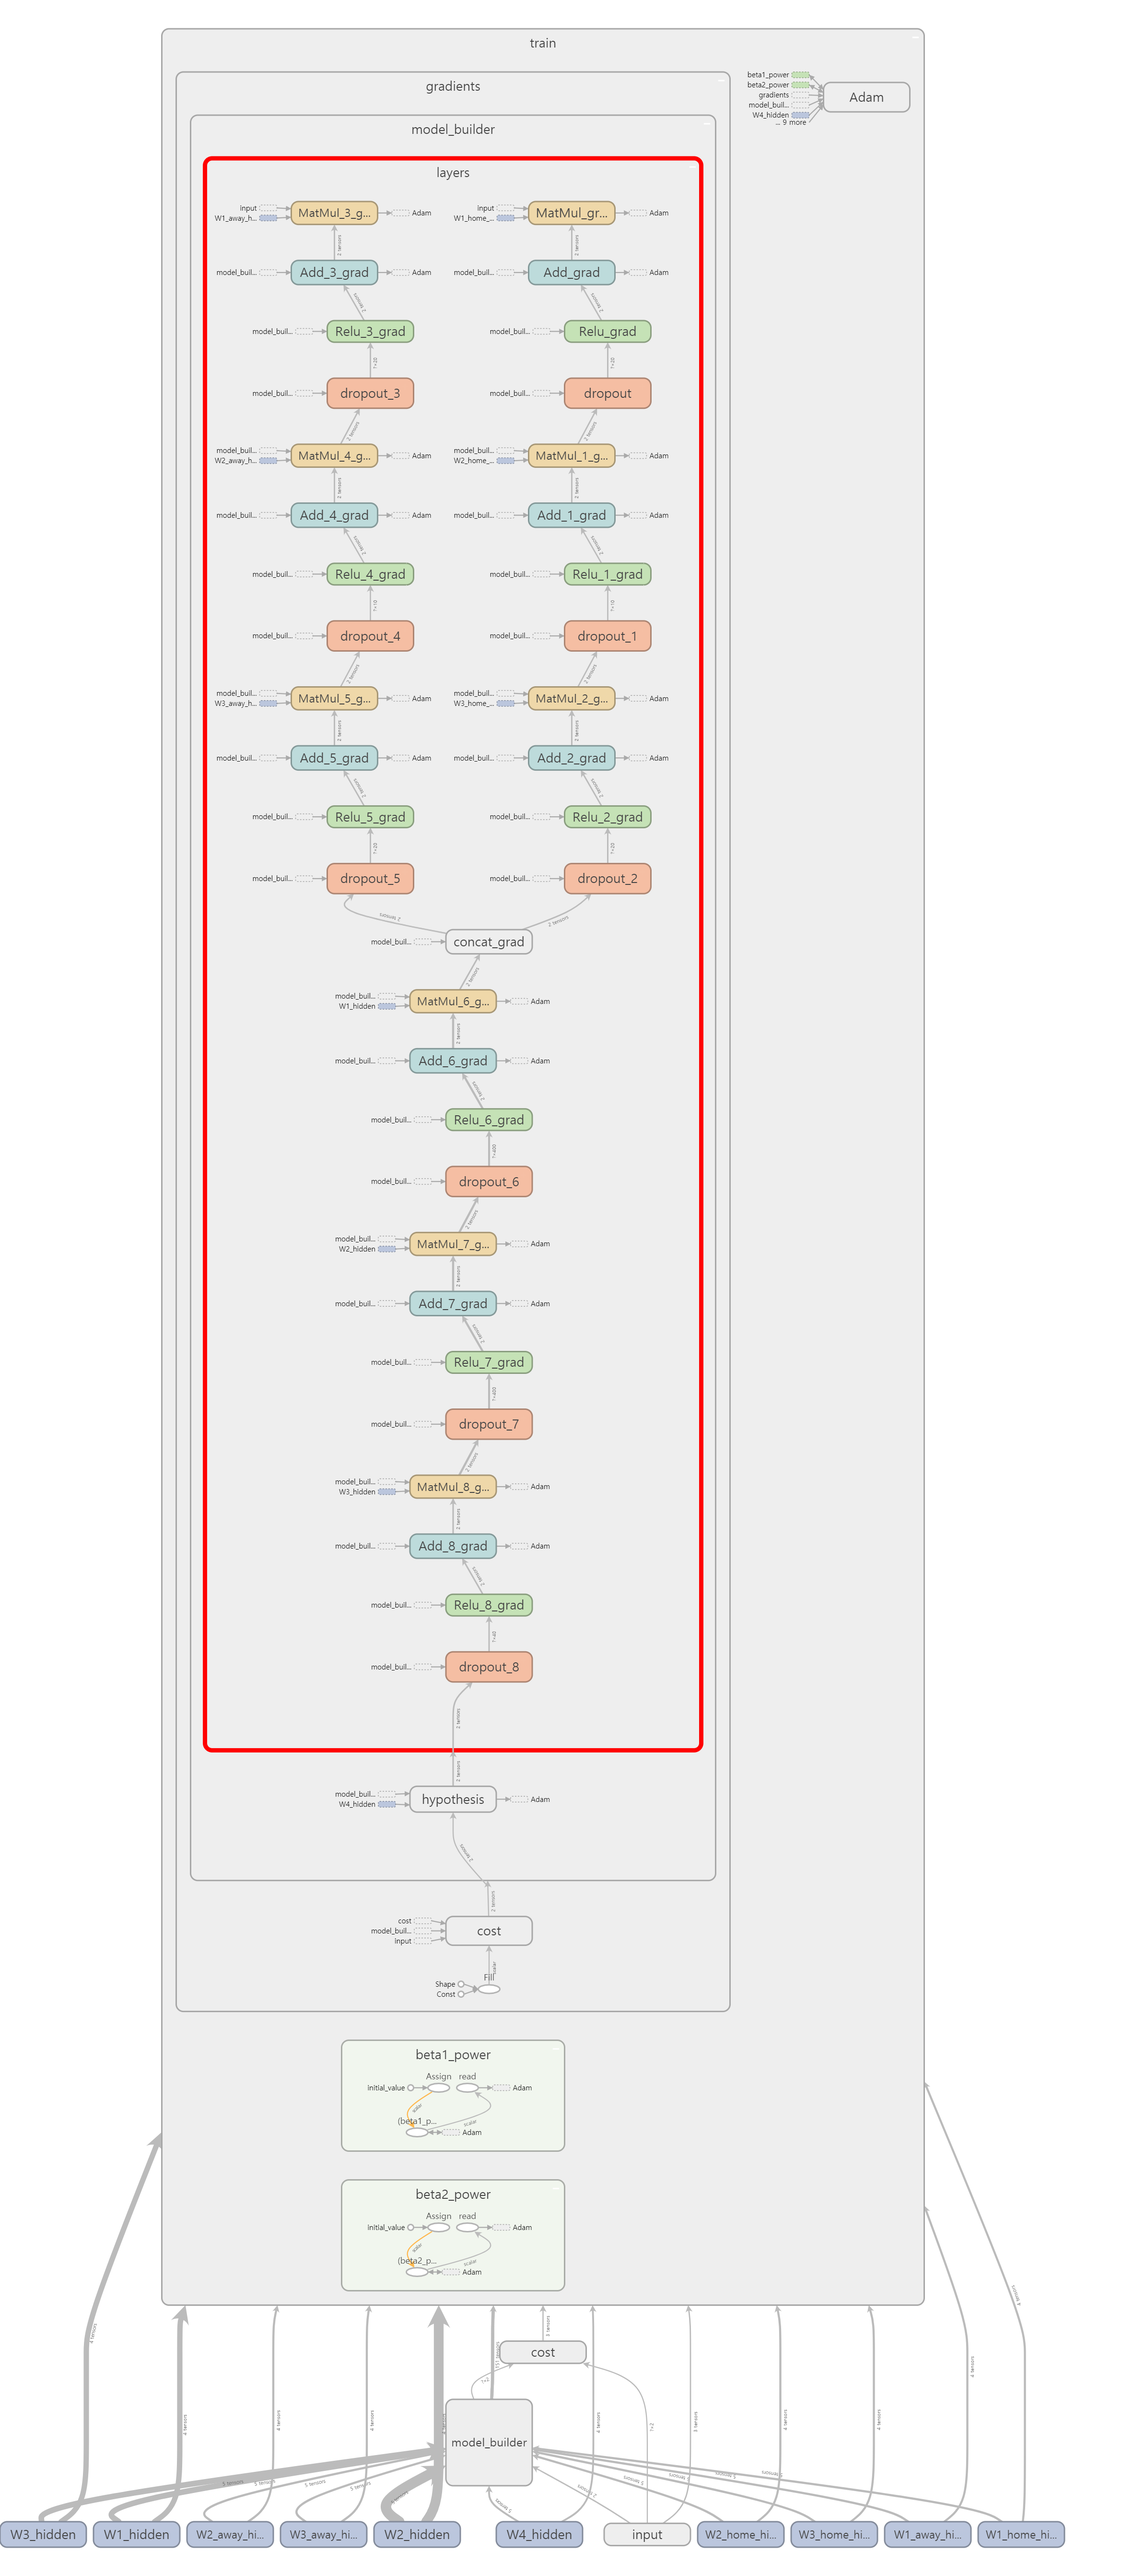
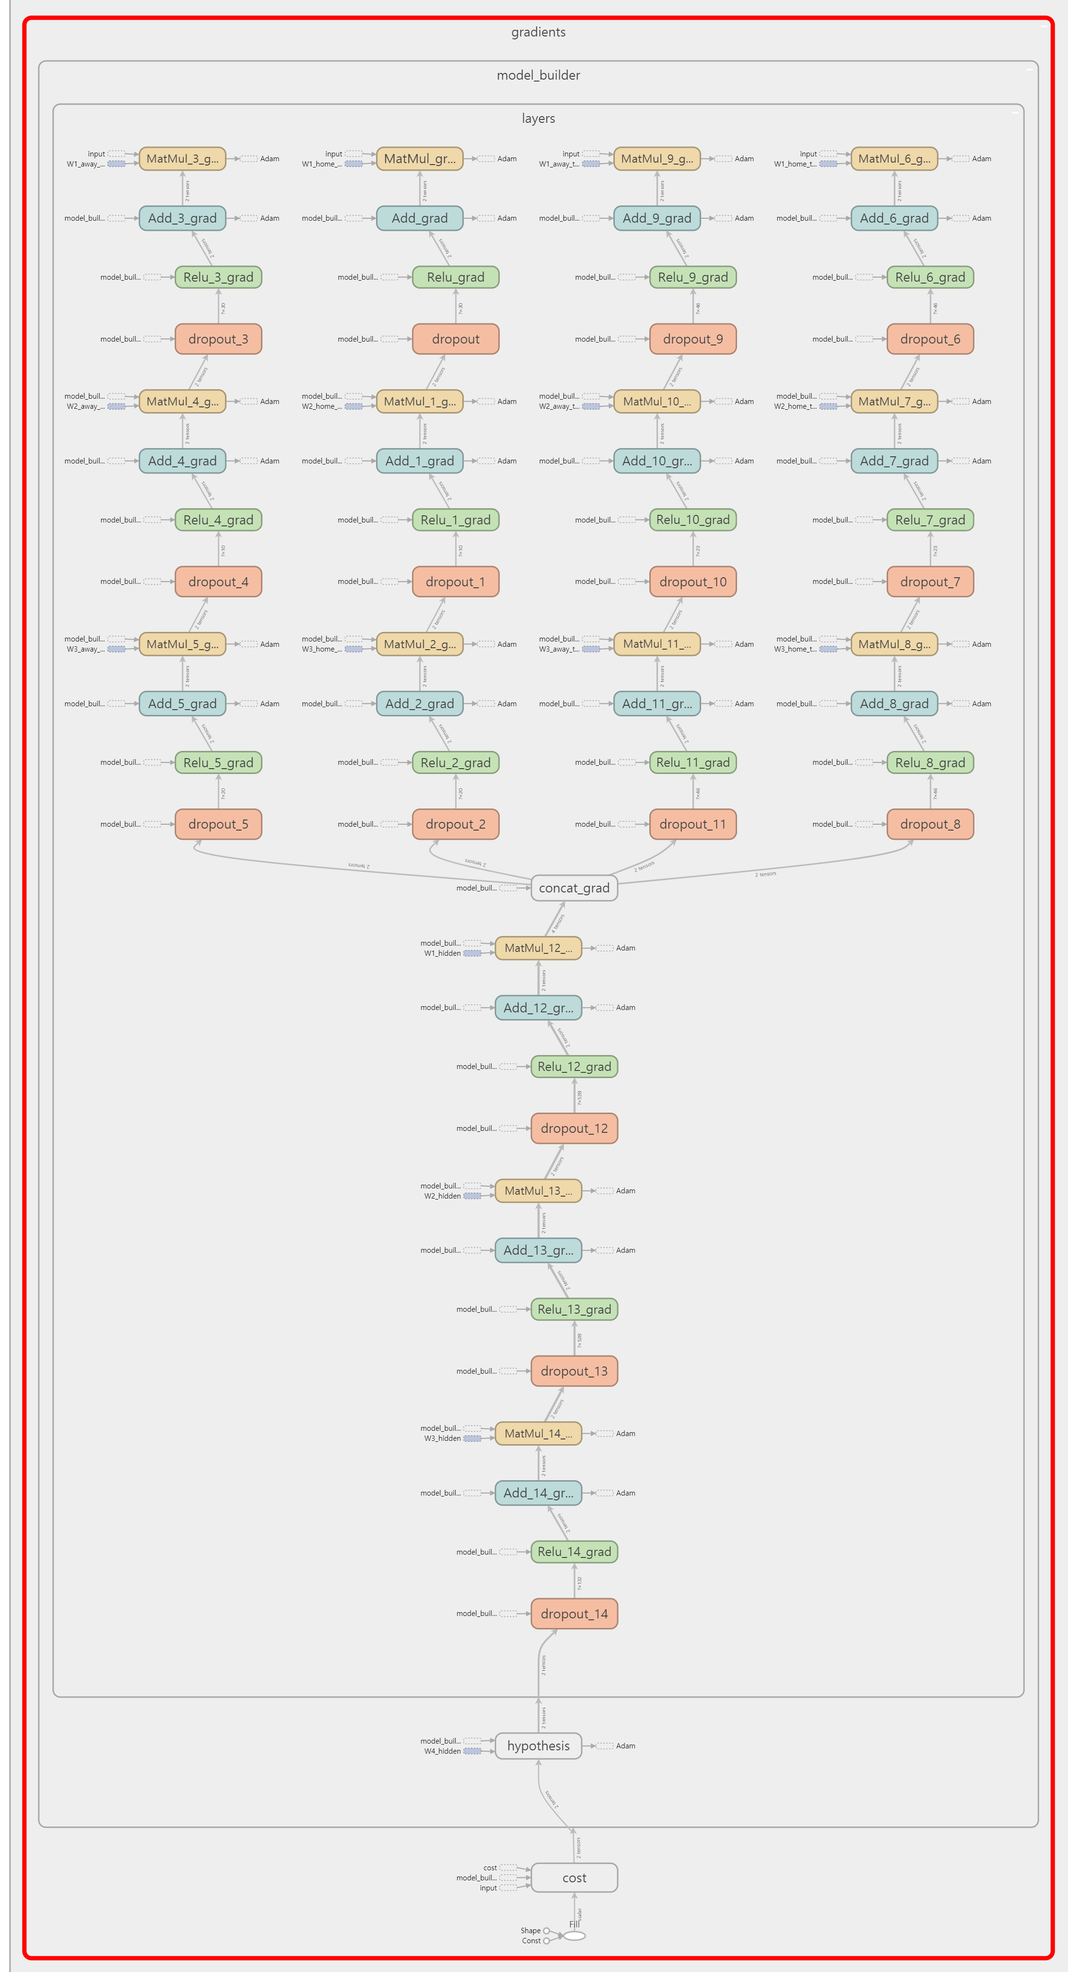
Update

Changed region(s): [[0.0, 0.0, 0.9915, 0.9966], [0.093, 0.8097, 0.1549, 0.872]]

diff --git a/README.md b/README.md
@@ -12,8 +12,10 @@ It's good for applying machine learning algorithms to baseball data sets to deri
 ## Project Status
 It's not completed yet. Keep improving the accuracy.
 
-## Project Screen Shots
-![tensorboard_image](https://github.com/cs2jang/predict_winner_tf/blob/master/img/layout2.png)
+## Project Layout images
+![tensorboard_image](https://github.com/cs2jang/predict_winner_tf/blob/master/img/model.jpg)
+- Model Layout
+![tensorboard_image](https://github.com/cs2jang/predict_winner_tf/blob/master/img/layout.png)
 - This image is the summary of my model.
 
 ## Reference
